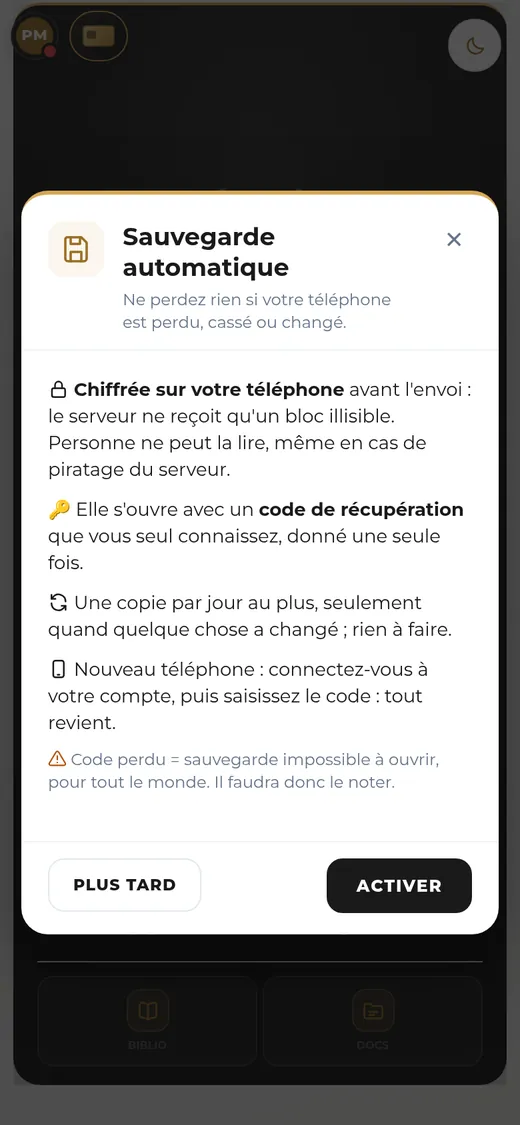
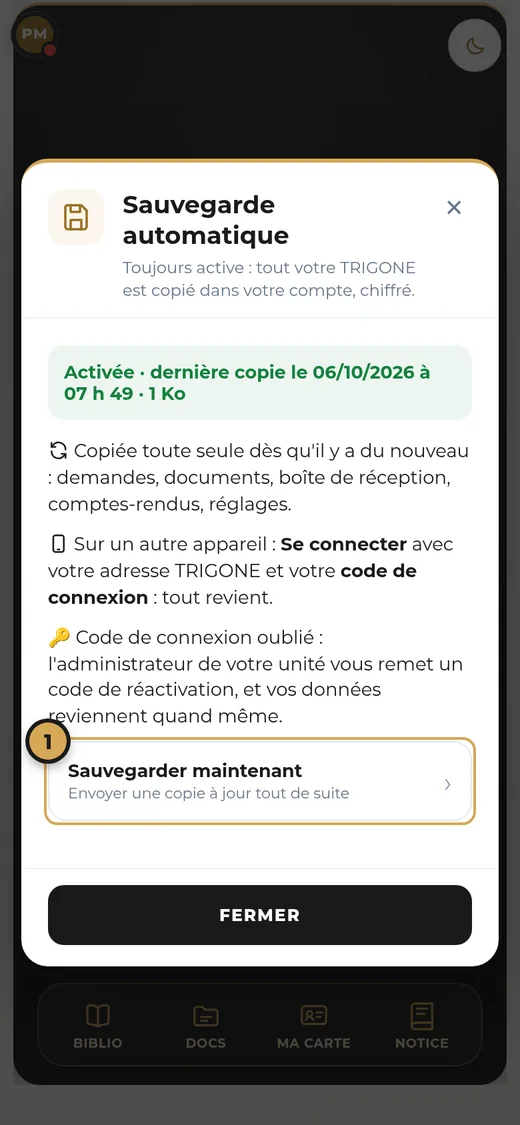
V198 : notice du code de connexion (captures et pages) (#262)
Claude-Session: https://claude.ai/code/session_01NStkfCttCkWn8HaycQvLWX

diff --git a/notice/notice.js b/notice/notice.js
@@ -4,7 +4,7 @@
 // appli avec des personnages fictifs (notice/img), repères dorés ① ② ③ repris dans le texte.
 // {B} : chemin de la racine de TRIGONE (« ../ » depuis Compte-rendu).
 (function() {
-    var VERSION = 186;
+    var VERSION = 187;
     // Capture : un bouton, pour que le toucher l'agrandisse au lieu de tourner la page.
     var TEL_SVG = '<svg viewBox="0 0 24 24" aria-hidden="true"><rect x="6.5" y="2.5" width="11" height="19" rx="2.5"/><path d="M11 18.5h2"/></svg>';
     function img(n) { return '<button type="button" class="n-capt" data-zoom="{B}notice/img/' + n + '.webp" aria-label="Agrandir la capture"><img src="{B}notice/img/' + n + '.webp" alt=""><i>⤢</i><span class="n-leg">' + TEL_SVG + (n === 'c3-carte-grand' ? 'Téléphone à l\'horizontale · Android / iPhone' : 'Téléphone · Android / iPhone') + '</span></button>'; }
@@ -72,9 +72,9 @@
 
     // ---------- 3. Compte ----------
     ajouter(chapitre(3, 'Créer son compte TRIGONE', 'Le compte TRIGONE vous donne votre adresse prénom.nom@trigone-app.com : elle sert à envoyer et recevoir demandes, comptes-rendus et justificatifs. Pas d\'adresse mail personnelle : un code de connexion, choisi deux fois, vous connecte partout ; un responsable de votre unité valide votre compte.',
-        ['Créer son compte (identité, puis validation)', 'Activer les notifications', 'Ajouter un autre appareil (PC, 2e téléphone)', 'Le QR de connexion', 'Se connecter partout (adresse + code)', 'Un compte, plusieurs appareils'], 'compte'));
-    ajouter(page('Créer son compte — 1/2', duo('f1-inscription', et(['Écran d\'accueil de TRIGONE › <b>Créer mon compte</b>.', r(1) + ' Votre <b>grade</b> et votre <b>unité</b> (choisie dans la liste).', r(2) + ' Votre <b>nom</b> et votre <b>prénom</b>.', r(3) + ' TRIGONE affiche <b>votre adresse TRIGONE</b> (homonyme : prénom.nom2…).', r(4) + ' <b>Créer mon compte</b>.'])) +
-        savoir('Aucune adresse mail personnelle n\'est demandée. Un compte créé avant octobre 2026 avec une adresse mail passe tout seul à son adresse TRIGONE (prénom.nom@trigone-app.com) : rien à faire.'), 'compte'));
+        ['Créer son compte (identité, puis validation)', 'Activer les notifications', 'Ajouter un autre appareil (PC, 2e téléphone)', 'Le QR de connexion', 'Se connecter partout (adresse + code)', 'Créer son code de connexion', 'Un compte, plusieurs appareils'], 'compte'));
+    ajouter(page('Créer son compte — 1/2', duo('f1-inscription', et(['Écran d\'accueil de TRIGONE › <b>Créer mon compte</b>.', r(1) + ' Votre <b>grade</b> et votre <b>unité</b> (choisie dans la liste).', r(2) + ' Votre <b>nom</b> et votre <b>prénom</b> : TRIGONE affiche votre <b>adresse TRIGONE</b>.', r(3) + ' Votre <b>code de connexion</b> (8 caractères au moins), puis ' + r(4) + ' le même une 2<sup>e</sup> fois.', r(5) + ' <b>Créer mon compte</b>.'])) +
+        savoir('Notez votre code de connexion : avec votre adresse TRIGONE, il vous connecte sur <b>tout appareil</b>, et toutes vos données reviennent.'), 'compte'));
     ajouter(page('Créer son compte — 2/2', duo('f2-parcours', et(['TRIGONE vous guide ensuite, <b>une étape par écran</b> : <b>profil</b> (compagnie, matricule), <b>code d\'accès</b>, <b>carte TRIGONE</b> (photo), <b>rôles</b>, <b>destinataires</b>, <b>notifications</b>.', '<b>À qui j\'envoie ?</b> : votre VALIDEUR 1 et l\'assistant Chorus DT se <b>choisissent dans la liste de votre unité</b> (ou en scannant leur carte). Un VALIDEUR 1 choisit aussi son VALIDEUR 2.', 'Un écran <b>Bienvenue dans TRIGONE</b> termine l\'inscription. Fermé en route, TRIGONE reprend à la même étape.', 'Le compte reste <b>en attente de validation</b> : montrez votre <b>carte TRIGONE</b> à votre chef, un valideur ou l\'assistant Chorus DT, qui la scanne.'])) +
         attention('Tant que le compte n\'est pas validé, il ne peut <b>ni envoyer ni recevoir</b> (demandes, factures par mail).'), 'compte'));
     ajouter(page('Notifications', duo('83-compte-notifications', et(['Ouvrez <b>Mon compte</b> (pastille en haut) › Paramètres › Notifications, ou la fenêtre Compte TRIGONE.', r(1) + ' Touchez <b>Activer les notifications</b>, puis <b>Autoriser</b> dans la fenêtre du téléphone.', 'Vous êtes prévenu de chaque demande reçue, refus, question, compte-rendu reçu et étape de votre suivi, <b>même appli fermée</b>.'])) +
@@ -85,9 +85,10 @@
         attention('Valable <b>15 minutes</b>, une seule fois. Ne l\'envoyez à personne : il ouvre votre compte. Le QR imprimé sur votre carte, lui, ne connecte jamais (il est fait pour être scanné par les autres).'), 'compte'));
     ajouter(page('Sur le nouvel appareil', duo('81c-liaison-qr', et(['Écran d\'accueil de TRIGONE › <b>« J\'ai déjà TRIGONE sur un autre appareil »</b>.', r(1) + ' Saisissez le code, ou ' + r(2) + ' <b>Scanner le QR de connexion</b> (caméra), ou ' + r(3) + ' <b>Depuis une image</b> : choisissez la capture d\'écran du QR.', 'Votre compte et <b>toutes vos données</b> arrivent : profil, demandes, missions, boîte de réception.'])) +
         savoir('QR scanné avec l\'appareil photo du téléphone : TRIGONE s\'ouvre directement sur cet écran, code déjà rempli. Votre code VALIDEUR 1 / 2 sera redemandé une fois, à la première signature.'), 'compte'));
-    ajouter(page('Se connecter partout (adresse + code)', '<h5>Sur n\'importe quel téléphone ou PC</h5>' + et(['Écran d\'accueil de TRIGONE › <b>Se connecter</b>.', 'Votre <b>adresse TRIGONE</b> (prénom.nom@trigone-app.com, ou seulement prénom.nom).', 'Votre <b>code de connexion</b> (8 caractères au moins), choisi deux fois à la création du compte.', '<b>Tout revient tout seul</b> : profil, demandes, documents, boîte de réception, comptes-rendus.']) +
-        '<h5>Code oublié, sécurité</h5>' + et(['Code oublié : l\'administrateur de votre unité vous remet un <b>code de réactivation</b> ; vos données reviennent quand même, puis vous choisissez un nouveau code.', '5 codes faux : <b>15 minutes d\'attente</b> ; 10 : connexion par code <b>coupée</b>. Chaque nouvelle connexion <b>vous est notifiée</b>.']) +
-        astuce('Le code à 4 chiffres (ou l\'empreinte) sert seulement à <b>ouvrir l\'appli</b> sur l\'appareil : il est redemandé à chaque réouverture.'), 'compte'));
+    ajouter(page('Se connecter partout (adresse + code)', duo('g1-connexion', et(['Sur n\'importe quel téléphone ou PC : accueil de TRIGONE › <b>Se connecter</b>.', r(1) + ' Votre <b>adresse TRIGONE</b> (ou seulement prénom.nom).', r(2) + ' Votre <b>code de connexion</b>.', r(3) + ' <b>Se connecter</b> : profil, demandes, documents, boîte de réception, comptes-rendus <b>reviennent tout seuls</b>.', r(4) + ' <b>Code oublié ?</b> L\'administrateur de votre unité vous remet un code de réactivation : vos données reviennent quand même.'])) +
+        attention('5 codes faux : 15 minutes d\'attente ; 10 : connexion par code coupée. Chaque nouvelle connexion vous est notifiée.'), 'compte'));
+    ajouter(page('Créer son code de connexion', duo('g2-code-connexion', et(['Compte créé avant la V197, ou après un code de réactivation : TRIGONE demande, à l\'ouverture, de <b>créer votre code de connexion</b> (impossible de passer).', r(1) + ' Le code (8 caractères au moins).', r(2) + ' Le même une 2<sup>e</sup> fois.', r(3) + ' <b>Enregistrer mon code</b>.', 'Le changer plus tard : Paramètres › Compte › <b>Mon code de connexion</b>.'])) +
+        savoir('Le <b>code à 4 chiffres</b> (ou l\'empreinte) sert seulement à <b>ouvrir l\'appli</b> sur l\'appareil : il est redemandé à chaque réouverture.'), 'compte'));
     ajouter(page('Un compte, plusieurs appareils', '<h5>Chaque appareil reçoit les envois</h5>' + et(['Demandes, comptes-rendus et questions arrivent sur <b>chacun de vos appareils</b> reliés au compte (PC, téléphone).', 'Vous pouvez commencer sur l\'un et finir sur l\'autre.']) +
         '<h5>Traité ici, traité partout</h5>' + et(['Une demande <b>signée sur le PC</b> passe en <b>« traité »</b> sur le téléphone : elle quitte « À signer » et l\'Espace valideur du téléphone.', 'Même chose pour un envoi <b>rouvert</b> ou <b>supprimé</b>, et pour l\'assistant Chorus DT (demande ou compte-rendu marqué « Traité »).', 'Délai : <b>quelques secondes</b>, dès que l\'autre appareil est ouvert (relevé toutes les 20 s). Déjà traité ailleurs : <b>pas de message</b> « reçu ».']) +
         savoir('Une décision déjà prise sur le téléphone mais <b>pas encore transmise</b> n\'est jamais effacée : elle reste à transmettre.'), 'compte'));
@@ -240,8 +241,8 @@
     // ---------- 14. Données ----------
     ajouter(chapitre(14, 'Sauvegarder et retrouver ses données', 'Vos demandes, missions et réglages sont rangés sur votre appareil. La sauvegarde automatique les garde aussi, chiffrés, dans votre compte : un téléphone perdu ne fait rien perdre.',
         ['Sauvegarde automatique du compte', 'Sauvegarde dans un fichier', 'Nouveau téléphone', 'Réinitialiser ou supprimer son compte', 'Comptes et demandes', 'Valider une inscription', 'Téléphone perdu ou volé', 'Hors réseau'], 'donnees'));
-    ajouter(page('Sauvegarde automatique', duo('80-sauvegarde-auto', et(['<b>Toujours active</b>, rien à faire : tout TRIGONE est copié, chiffré, dans votre compte.', 'Une copie part <b>dès qu\'il y a du nouveau</b> (toutes les 10 minutes au plus) et quand vous quittez l\'appli.', 'Demandes, documents, <b>boîte de réception</b>, comptes-rendus, réglages, pièces jointes.', 'Nouveau téléphone : <b>Se connecter</b> (adresse + code de connexion) : tout revient.'])) +
-        savoir('Paramètres › Données › Sauvegarde automatique › <b>Sauvegarder maintenant</b> envoie une copie tout de suite.'), 'donnees'));
+    ajouter(page('Sauvegarde automatique', duo('80-sauvegarde-auto', et(['<b>Toujours active</b>, rien à faire : tout TRIGONE est copié, chiffré, dans votre compte.', 'Une copie part <b>dès qu\'il y a du nouveau</b> (10 minutes au plus tôt) et quand vous quittez l\'appli.', 'Demandes, documents, <b>boîte de réception</b>, comptes-rendus, réglages, pièces jointes.', r(1) + ' <b>Sauvegarder maintenant</b> : une copie tout de suite.'])) +
+        savoir('Nouveau téléphone : <b>Se connecter</b> (adresse + code de connexion) : tout revient.'), 'donnees'));
     ajouter(page('Fichier et nouveau téléphone', '<h5>Sauvegarde dans un fichier</h5>' + et(['Paramètres › Données › <b>Sauvegarder dans un fichier</b> : un fichier pour tout TRIGONE, à ranger où vous voulez.', '<b>Restaurer depuis un fichier</b> : sur cet appareil ou un nouveau.']) +
         '<h5>Changer de téléphone</h5>' + et(['<b>Le plus simple</b> : sur l\'ancien, Ajouter un appareil (code de liaison), puis sur le nouveau « J\'ai déjà TRIGONE sur un autre appareil ».', '<b>Ancien téléphone perdu</b> : sur le nouveau, Se connecter (adresse + code de connexion) : tout revient.']) +
         '<h5>Sans réseau</h5><p>TRIGONE s\'ouvre et fonctionne sans réseau. Les envois faits sans réseau partent tout seuls au retour du réseau (Paramètres › Données › <b>Envois en attente</b>).</p>', 'donnees'));

diff --git a/cr/index.html b/cr/index.html
@@ -11,7 +11,7 @@
 <link rel="manifest" href="../manifest.json">
 <meta name="apple-mobile-web-app-title" content="TRIGONE">
 <meta name="application-name" content="TRIGONE">
-<script src="../jumelage.js?v=200"></script>
+<script src="../jumelage.js?v=201"></script>
 <link rel="icon" type="image/png" sizes="192x192" href="icon-192.png?v=3">
 <link rel="apple-touch-icon" href="apple-touch-icon.png?v=3">
 <link href="../fonts/montserrat.css" rel="stylesheet"><!-- police hébergée avec TRIGONE : identique hors ligne -->
@@ -11722,7 +11722,7 @@ function SET_UPDATE_SEEN_VERSION(cle, version) {
 // Numéro de version du code de CETTE appli. À augmenter à chaque publication, en même temps que
 // « appCodeVersion » dans updates-manifest.json : c'est ce qui permet à l'appli de savoir si elle est
 // déjà à jour (elle affiche alors les « Nouveautés ») ou en retard (elle demande la mise à jour).
-var APP_CODE_VERSION = 295;
+var APP_CODE_VERSION = 296;
 // Jumelage : numéro affiché « V1, V2… » ; APP_CODE_VERSION reste le compteur interne des mises à jour
 // (à augmenter avec appCodeVersion de cr/updates-manifest.json, sans jamais le faire redescendre).
 var APP_VERSION_AFFICHEE = APP_CODE_VERSION - 98;

diff --git a/index.html b/index.html
@@ -5,7 +5,7 @@
 <meta name="viewport" content="width=device-width, initial-scale=1, viewport-fit=cover">
 <title>TRIGONE — Mise en route</title>
 <link rel="manifest" href="manifest.json">
-<script src="jumelage.js?v=200"></script>
+<script src="jumelage.js?v=201"></script>
 <meta name="theme-color" content="#ecebe7">
 <link href="fonts/montserrat.css" rel="stylesheet"><!-- police hébergée avec TRIGONE : identique hors ligne -->
 <link rel="apple-touch-icon" href="apple-touch-icon.png?v=3">
@@ -1168,6 +1168,6 @@ body.dark-mode .MER-BASCULE-ROLE { background: rgba(255,255,255,0.08); } body.da
     </div>
   </div>
 </div>
-<script src="app.js?v=200"></script>
+<script src="app.js?v=201"></script>
 </body>
 </html>

diff --git a/jumelage.js b/jumelage.js
@@ -1231,7 +1231,7 @@
     // Dès l'ouverture (démarrage ou retour dans l'appli), TRIGONE vérifie s'il existe une publication plus récente
     // et se met à jour tout seul. Jamais au mauvais moment : uniquement sur l'accueil, sans fenêtre ouverte
     // (chaque appli le dit via JUMELAGE_PEUT_RECHARGER) ; sinon au prochain retour sur l'accueil.
-    var BUILD = 200, MAJ_DISPO = false, CLE_RECHARGE = 'trigone_recharge_build';
+    var BUILD = 201, MAJ_DISPO = false, CLE_RECHARGE = 'trigone_recharge_build';
     function peutRecharger() {
         if (document.visibilityState === 'hidden') return false;
         if (document.body && document.body.classList.contains('demo-active')) return false;

diff --git a/app.js b/app.js
@@ -1,7 +1,7 @@
 // ===================== TRIGONE MISE EN ROUTE — logique =====================
 var MER_VERSION = 1;          // version du format des fichiers .json échangés
 // Version du code de l'appli : à augmenter à chaque publication, avec « appCodeVersion » dans updates-manifest.json.
-var APP_CODE_VERSION = 245;
+var APP_CODE_VERSION = 246;
 // Numéro de version affiché (« V1 », « V2 »…) : repart de 1 au lancement de TRIGONE jumelé et suit ensuite chaque
 // publication. APP_CODE_VERSION reste le compteur interne des mises à jour (ne jamais le faire redescendre).
 var APP_VERSION_AFFICHEE = APP_CODE_VERSION - 48;

diff --git a/cr/sw.js b/cr/sw.js
@@ -1,6 +1,6 @@
 // Copie jumelée dans TRIGONE Mise en route (dossier cr/) : caches préfixés « trigone-cr- » ; ceux de
 // Mise en route (« trigone-mise-en-route- ») ne sont jamais effacés d'ici.
-const CACHE_NAME = 'trigone-cr-v589';
+const CACHE_NAME = 'trigone-cr-v590';
 const ASSETS = [
   './',
   './manifest.json',

diff --git a/sw.js b/sw.js
@@ -1,4 +1,4 @@
-const CACHE_NAME = 'trigone-mise-en-route-v254';
+const CACHE_NAME = 'trigone-mise-en-route-v255';
 const ASSETS = [
   './',
   './manifest.json',
